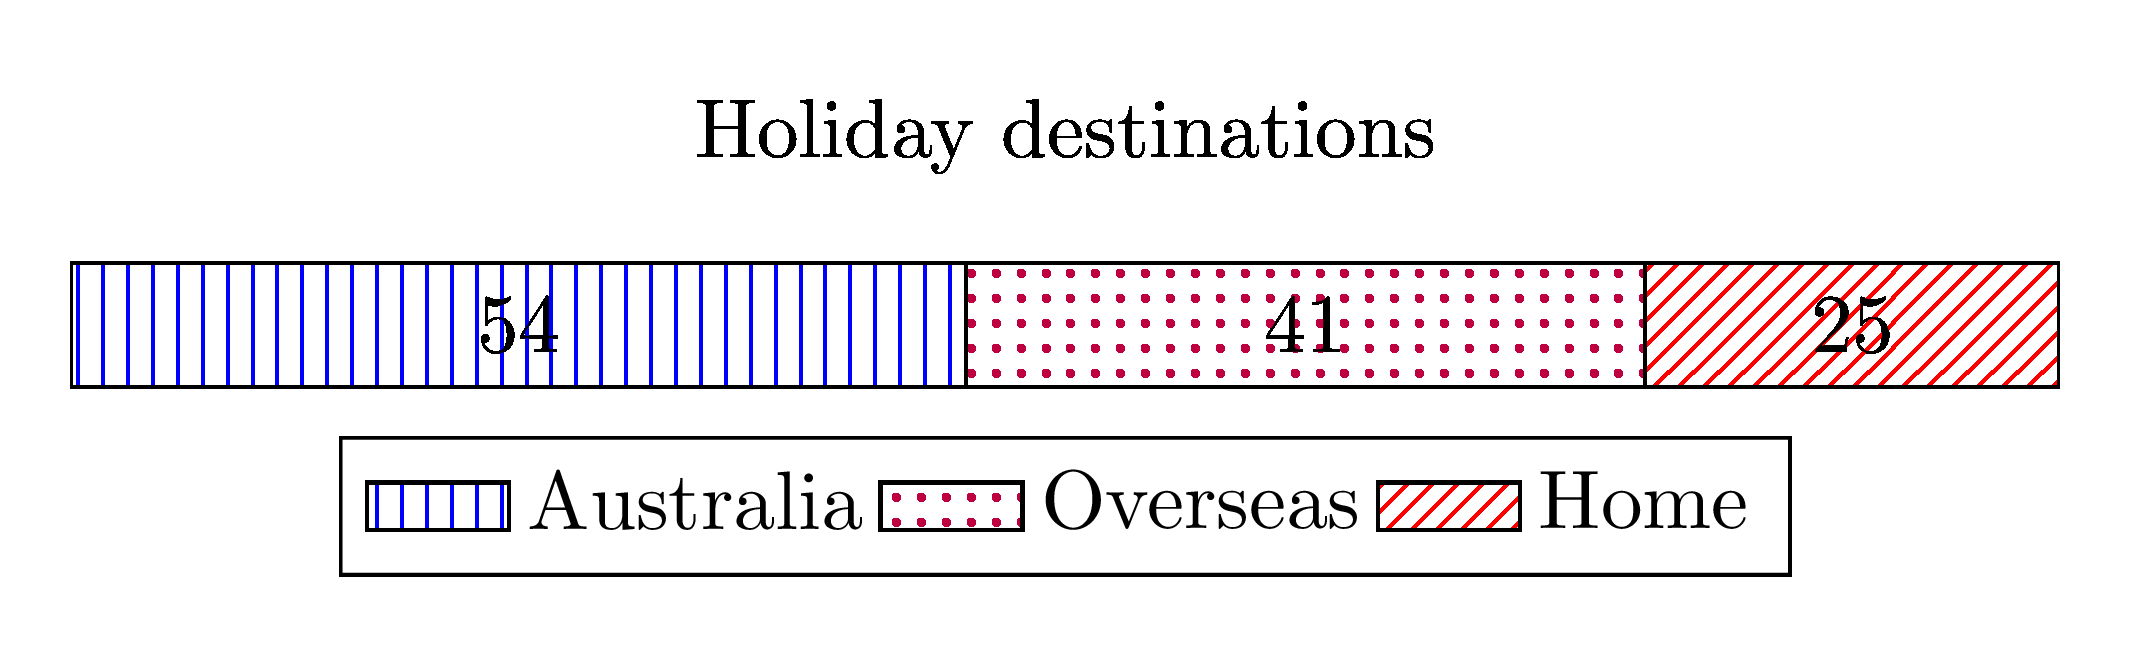
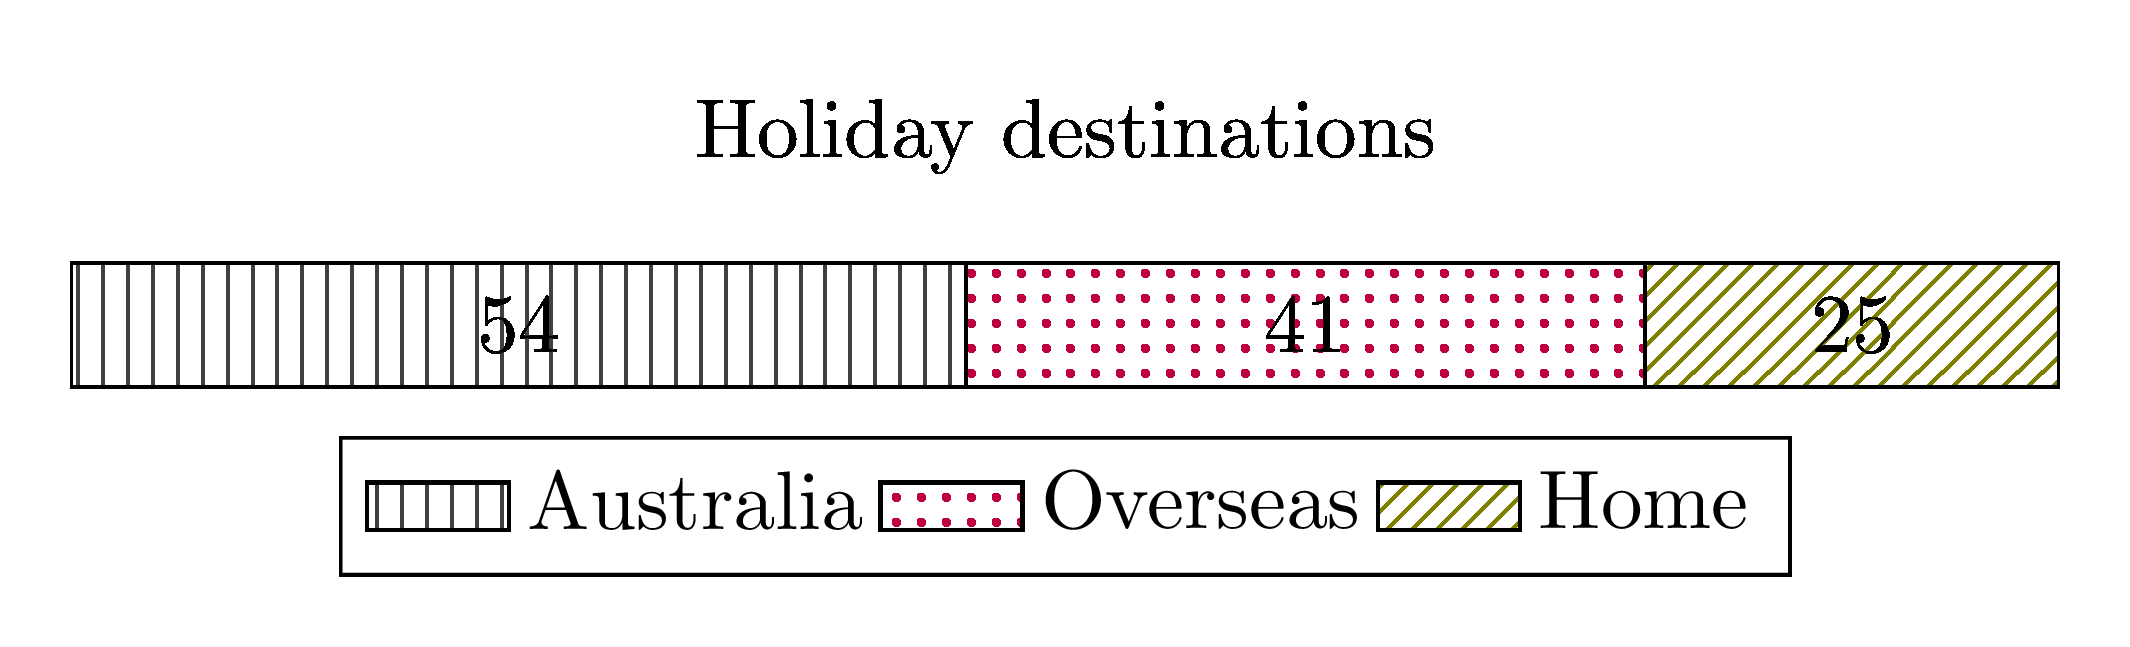
up

diff --git a/docs/latex_maths/divided_bar_graphs/files/dbc_travel.tex b/docs/latex_maths/divided_bar_graphs/files/dbc_travel.tex
@@ -9,13 +9,13 @@
 % Define cycle list macro
 \newcommand{\mycyclelist}{
     cycle list={
-        {pattern=vertical lines, pattern color=blue},
+        {pattern=vertical lines, pattern color=darkgray},
         {pattern=dots, pattern color=purple},
-        {pattern=north east lines, pattern color=red},
-        {pattern=crosshatch dots, pattern color=olive},
-        {pattern=horizontal lines, pattern color=darkgray},
-        {pattern=north west lines, pattern color=violet},
-        {pattern=grid, pattern color=teal},
+        {pattern=north east lines, pattern color=olive},
+        {pattern=crosshatch dots, pattern color=violet},
+        {pattern=horizontal lines, pattern color=teal},
+        {pattern=north west lines, pattern color=red},
+        {pattern=grid, pattern color=blue},
         {pattern=fivepointed stars, pattern color=magenta},
         {pattern=bricks, pattern color=cyan},
         {pattern=sixpointed stars, pattern color=orange},

diff --git a/docs/latex_maths/divided_bar_graphs/files/divided_bar_chart_patterns_template.tex b/docs/latex_maths/divided_bar_graphs/files/divided_bar_chart_patterns_template.tex
@@ -9,13 +9,13 @@
 % Define cycle list macro
 \newcommand{\mycyclelist}{
     cycle list={
-        {pattern=vertical lines, pattern color=blue},
+        {pattern=vertical lines, pattern color=darkgray},
         {pattern=dots, pattern color=purple},
-        {pattern=north east lines, pattern color=red},
-        {pattern=crosshatch dots, pattern color=olive},
-        {pattern=horizontal lines, pattern color=darkgray},
-        {pattern=north west lines, pattern color=violet},
-        {pattern=grid, pattern color=teal},
+        {pattern=north east lines, pattern color=olive},
+        {pattern=crosshatch dots, pattern color=violet},
+        {pattern=horizontal lines, pattern color=teal},
+        {pattern=north west lines, pattern color=red},
+        {pattern=grid, pattern color=blue},
         {pattern=fivepointed stars, pattern color=magenta},
         {pattern=bricks, pattern color=cyan},
         {pattern=sixpointed stars, pattern color=orange},
